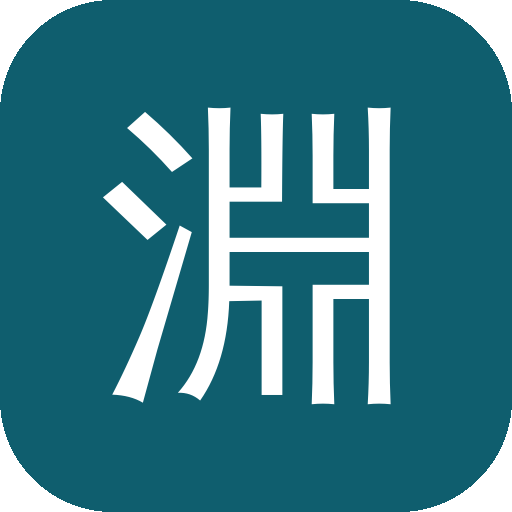
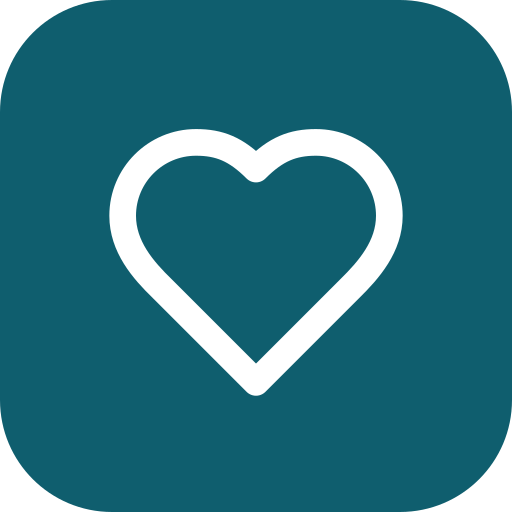
App 圖示改回原本 App 的愛心
Claude-Session: https://claude.ai/code/session_01GDKBwN11Y69ak3MnchPoV1

Changed region(s): [[0.1875, 0.1875, 0.8125, 0.8125]]

diff --git a/sw.js b/sw.js
@@ -1,5 +1,5 @@
 /* 淩淵 PWA service worker: app shell cache-first with background refresh; fonts cached on first use. */
-const CACHE = "ly-pwa-ecb5c51856";
+const CACHE = "ly-pwa-4a7b83c0f7";
 const SHELL = ["./", "index.html", "manifest.webmanifest", "icons/icon-192.png", "icons/icon-512.png", "icons/maskable-512.png", "icons/apple-touch-icon.png", "config.js", "sync.js"];
 
 self.addEventListener("install", e => {
